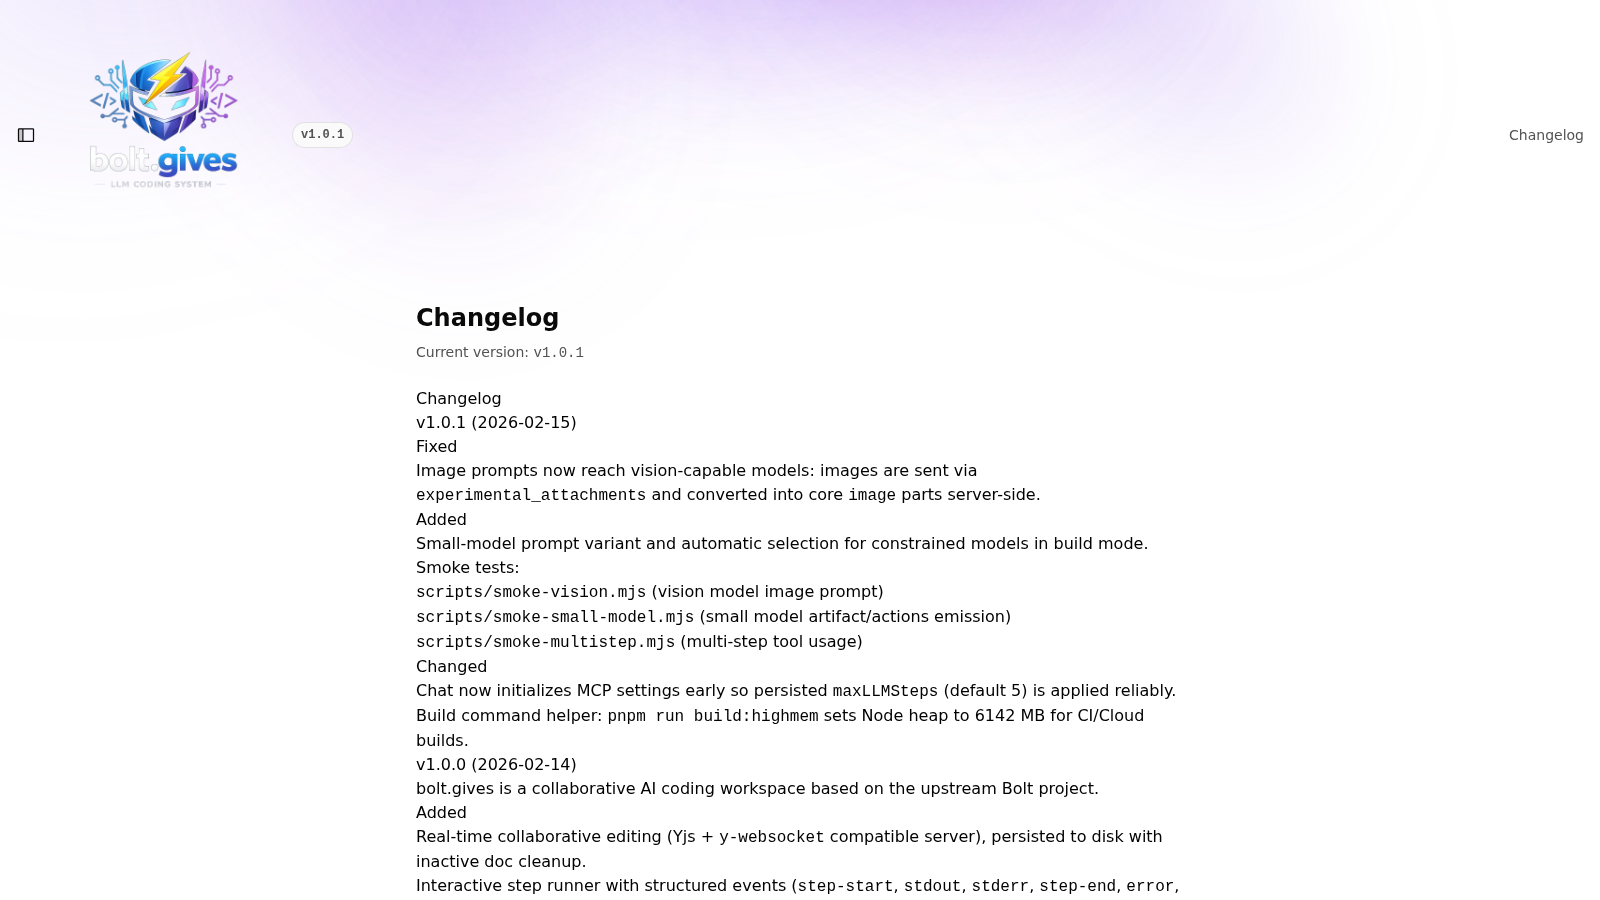
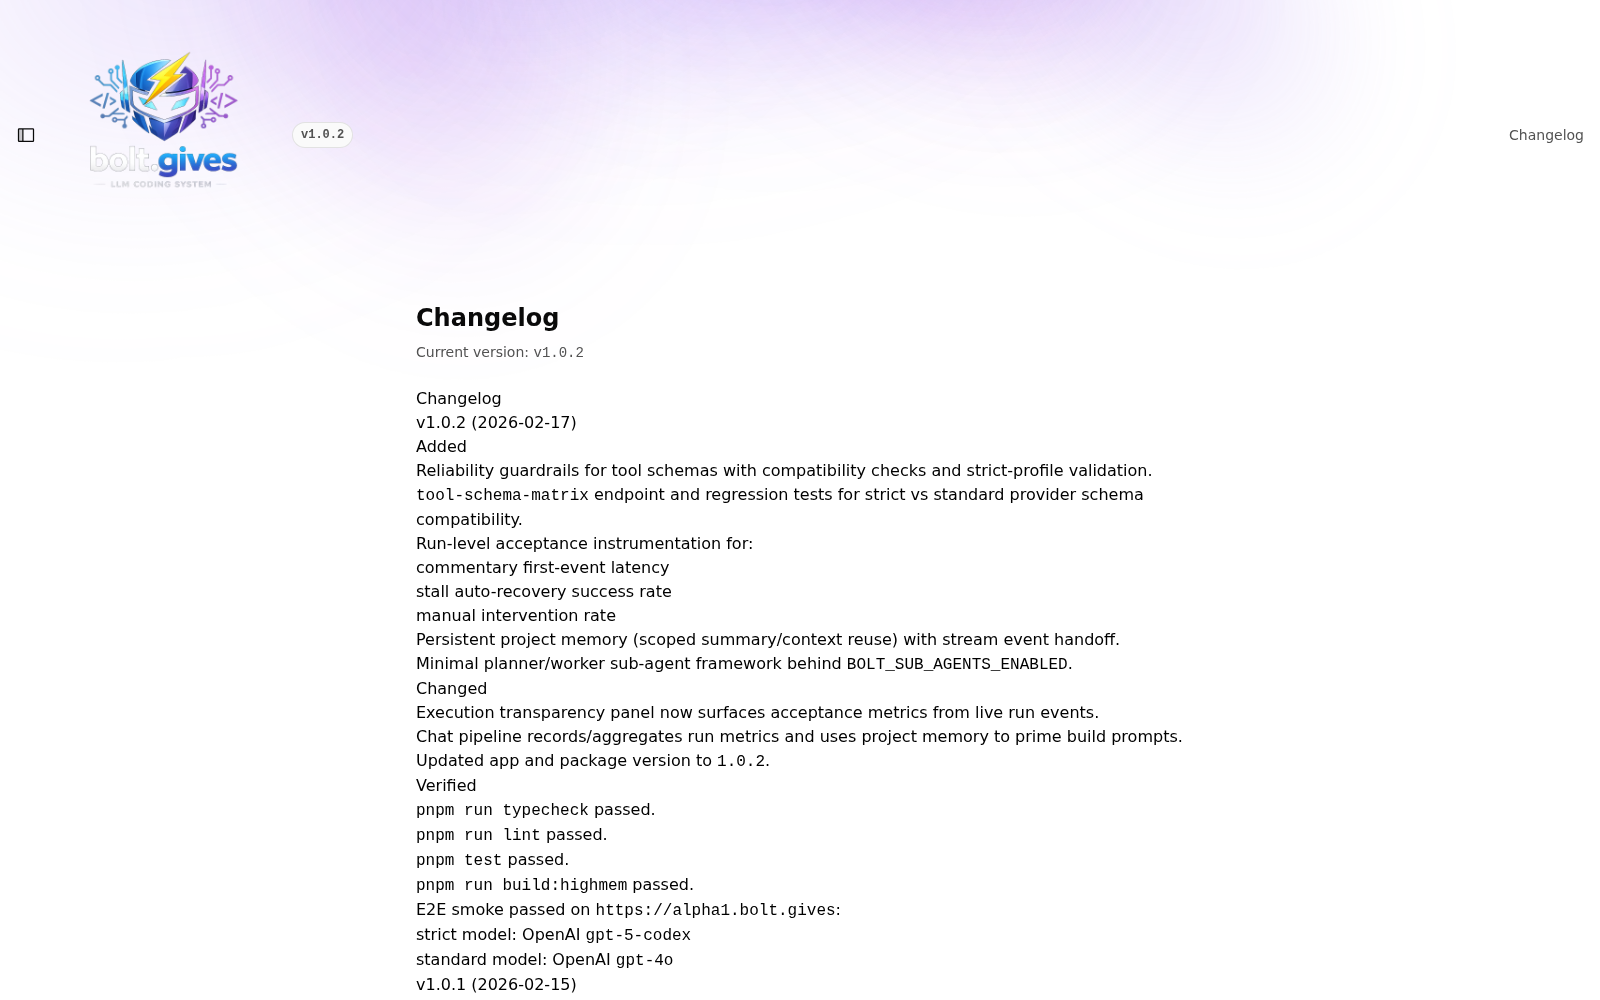
docs: refresh readme for v1.0.2 and update screenshots

diff --git a/README.md b/README.md
@@ -24,6 +24,10 @@ Current version: **v1.0.2**
 
 bolt.gives is a collaborative, open-source AI coding workspace.
 
+Release branch status (2026-02-17):
+- `main` → `v1.0.2`
+- `alpha` → `v1.0.2`
+
 It combines:
 - A browser-based Node.js dev environment (StackBlitz WebContainer)
 - An AI-assisted editor + terminal
@@ -176,6 +180,7 @@ Notes:
 ### Install Node.js + pnpm (Ubuntu)
 
 This project builds a large Vite/Remix bundle and may require a larger Node heap during build.
+Installation steps are unchanged for `v1.0.2`.
 
 1. Install base packages:
    ```bash
